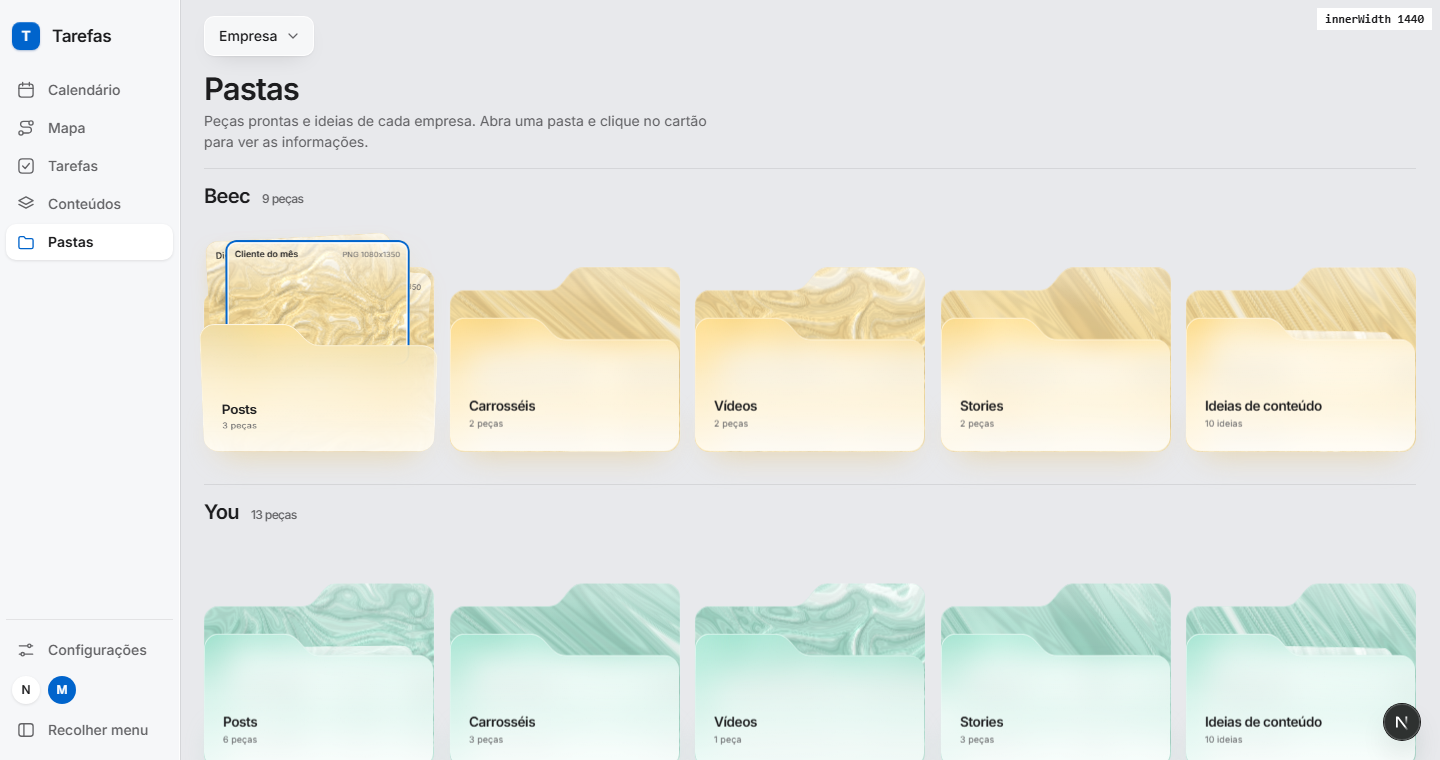
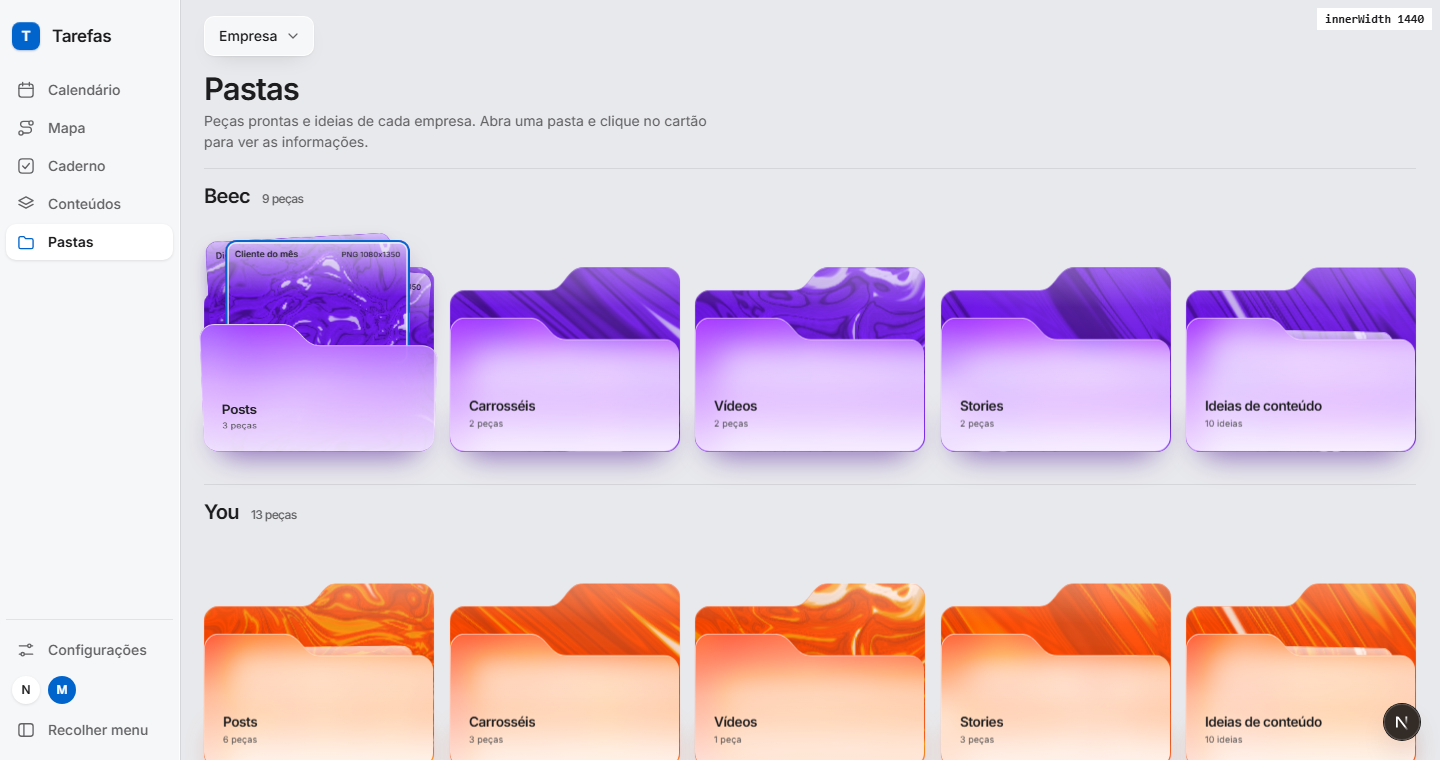
Pastas: cor da marca (Beec roxo, You laranja), item 71

diff --git a/src/components/pastas/cores.ts b/src/components/pastas/cores.ts
@@ -1,12 +1,15 @@
 import { hashString, RECEITAS, type ArtRecipe } from "./arte";
 
-// Cor de cada empresa na pasta: tom suave (pastel). Os dados não guardam cor da empresa ainda; Beec e You têm a sua,
-// as empresas novas ganham uma da lista pela ordem do nome. Fica aqui até a Fase 2 trazer a cor do cadastro.
+// Cor de cada empresa na pasta = a cor DA MARCA (item 71). Só a cor; nada mais da identidade delas.
+// Beec: roxo do logo (ID-Visual-ALL/Beec/identidade/tokens.css, barras do logo #470E96 e #6E18E5 e o elétrico #7319F1);
+//   o brilho #CDB4F8 é um tom claro derivado do mesmo roxo (a ID não tem lilás claro).
+// You: laranja do CRM (CRM-You/css/you-tokens.css: --brand-orange #FE4901, --orange-600 #E0430A, --brand-orange-2 #FF9200, --orange-100 #FFE0CC).
+// Empresa nova ganha uma das cores suaves de OUTROS pelo nome, até a Fase 2 trazer a cor do cadastro.
 // g = veia escura, r = líquido, c = veia clara, o = brilho (substituem os 4 azuis da arte).
 type Tom = { g: string; r: string; c: string; o: string };
 const TONS: Record<string, Tom> = {
-  beec: { g: "#E6C98A", r: "#F5DDA0", c: "#F9E8BC", o: "#FFF8E4" },
-  you: { g: "#96CDBC", r: "#B1E0D2", c: "#CDEEE3", o: "#EEFAF6" },
+  beec: { g: "#470E96", r: "#6E18E5", c: "#7319F1", o: "#CDB4F8" },
+  you: { g: "#E0430A", r: "#FE4901", c: "#FF9200", o: "#FFE0CC" },
 };
 const OUTROS: Tom[] = [
   { g: "#D79AA8", r: "#EDB8C4", c: "#F5D2DA", o: "#FDEEF1" },

diff --git a/src/components/pastas/pastas.css b/src/components/pastas/pastas.css
@@ -15,7 +15,7 @@
   --gf-fan: 0deg;
   --gf-stack: 15px;
   --gf-ink: var(--texto);
-  --gf-ink-soft: var(--fraco);
+  --gf-ink-soft: #48484A; /* escuro o bastante para ler (AA) sobre roxo e laranja */
   position: relative;
   display: block;
   margin-inline: auto;
@@ -102,7 +102,7 @@ canvas.gf-sheet-art[data-ready] { opacity: 1; filter: none; }
 }
 .gf-sheet-head { position: absolute; left: 14px; right: 14px; top: 11px; z-index: 1; display: flex; align-items: baseline; justify-content: space-between; gap: 10px; white-space: nowrap; }
 .gf-sheet-name { overflow: hidden; text-overflow: ellipsis; font-size: 13px; font-weight: 600; color: var(--texto); }
-.gf-sheet-meta { flex: none; font-size: 11px; letter-spacing: .02em; color: var(--fraco); }
+.gf-sheet-meta { flex: none; font-size: 11px; font-weight: 500; letter-spacing: .02em; color: var(--texto); }
 
 /* ---- vidro da frente ---- */
 .gf-front {
